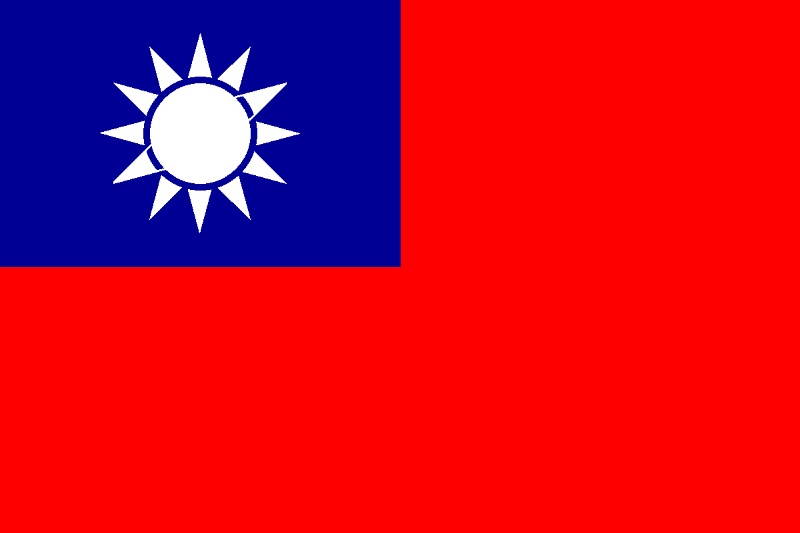
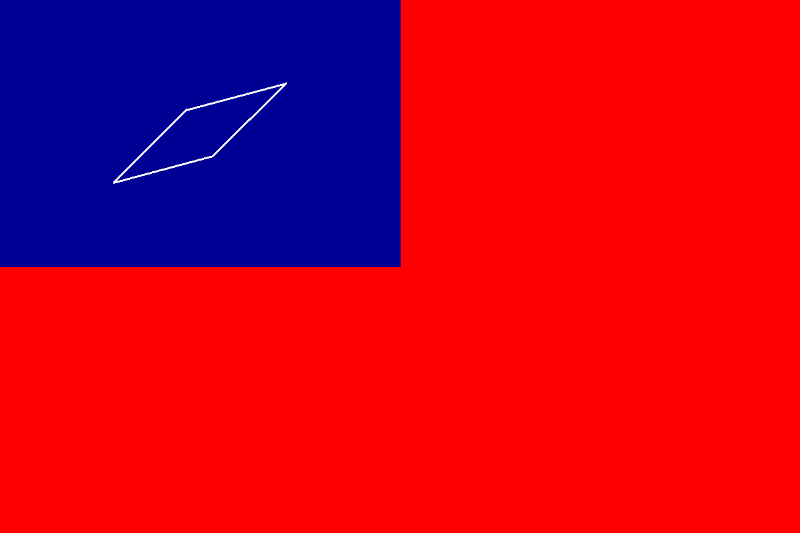
1226-2

Changed region(s): [[0.125, 0.06, 0.375, 0.4203]]

diff --git a/config/content_backup.htm b/config/content_backup.htm
@@ -960,8 +960,12 @@ gdImageLine(img, x1, y1, x2, y2, color);
 <div><img alt="" height="375" src="/images/roc_flag.png" width="563"/></div>
 <div><img alt="" height="521" src="/images/螢幕擷取畫面 2023-12-19 154806.png" width="132"/></div>
 <div>加入程式碼:</div>
+<div>
+<pre class="brush:cpp;auto-links:false;toolbar:false" contenteditable="false">// 設置線條的粗度
+gdImageSetThickness(img, 3);
+</pre>
+</div>
 <div></div>
-<div>// 設置線條的粗度<br/> gdImageSetThickness(img, 3);</div>
 <div>
 <pre class="brush:cpp;auto-links:false;toolbar:false" contenteditable="false">// 連接四個座標點
 connectPoints(img, 429, 125, 279, 165, white);
@@ -1025,10 +1029,10 @@ gdImageFilledRectangle(img, 0, 0, width, height, red);
 // 青天面積為整面國旗的 1/4, 也是採用長方形塗色
 gdImageFilledRectangle(img, 0, 0, (int)(width / 2.0), (int)(height / 2.0), blue);
 // 先設法以填色畫出六個白色堆疊菱形
-draw_white_sun(img, center_x, center_y, sun_radius, white);
+#draw_white_sun(img, center_x, center_y, sun_radius, white);
 // 利用一個藍色大圓與白色小圓畫出藍色環狀
-gdImageFilledEllipse(img, center_x, center_y, blue_circle_dia, blue_circle_dia, blue);
-gdImageFilledEllipse(img, center_x, center_y, white_circle_dia, white_circle_dia, white);
+#gdImageFilledEllipse(img, center_x, center_y, blue_circle_dia, blue_circle_dia, blue);
+#gdImageFilledEllipse(img, center_x, center_y, white_circle_dia, white_circle_dia, white);
 
 // 設置線條的粗度
 gdImageSetThickness(img, 3);
@@ -1083,14 +1087,18 @@ gdImageLine(img, dx1, dy1, ax1, ay1, color);
 
 void connectPoints(gdImagePtr img, int x1, int y1, int x2, int y2, int color) {
 gdImageLine(img, x1, y1, x2, y2, color);
-}</pre>
+}
+
+</pre>
 <p><br/><br/></p>
+<p></p>
 </div>
-<div>輸出結果:</div>
-<div><img alt="" height="494" src="/images/roc_flag_in_gd.png" width="741"/></div>
+<div>\輸出結果:</div>
+<div><img alt="" height="533" src="/images/roc_flag_in_gd.png" width="800"/></div>
+<div></div>
 <div></div>
 <div>2) 承上題, 請列出第二組 ABED 的四條直線與白日中的大圓所相交 (intersect) 的四個點座標.</div>
-<div>---------------------------------------------------------------------------------------------------</div>
+<div>------------------------------------------------------------------------------------------------</div>
 </div><h1>課程心得</h1>
 <p></p>
 <p></p>

diff --git a/config/content.htm b/config/content.htm
@@ -1029,10 +1029,10 @@ gdImageFilledRectangle(img, 0, 0, width, height, red);
 // 青天面積為整面國旗的 1/4, 也是採用長方形塗色
 gdImageFilledRectangle(img, 0, 0, (int)(width / 2.0), (int)(height / 2.0), blue);
 // 先設法以填色畫出六個白色堆疊菱形
-draw_white_sun(img, center_x, center_y, sun_radius, white);
+#draw_white_sun(img, center_x, center_y, sun_radius, white);
 // 利用一個藍色大圓與白色小圓畫出藍色環狀
-gdImageFilledEllipse(img, center_x, center_y, blue_circle_dia, blue_circle_dia, blue);
-gdImageFilledEllipse(img, center_x, center_y, white_circle_dia, white_circle_dia, white);
+#gdImageFilledEllipse(img, center_x, center_y, blue_circle_dia, blue_circle_dia, blue);
+#gdImageFilledEllipse(img, center_x, center_y, white_circle_dia, white_circle_dia, white);
 
 // 設置線條的粗度
 gdImageSetThickness(img, 3);
@@ -1087,14 +1087,18 @@ gdImageLine(img, dx1, dy1, ax1, ay1, color);
 
 void connectPoints(gdImagePtr img, int x1, int y1, int x2, int y2, int color) {
 gdImageLine(img, x1, y1, x2, y2, color);
-}</pre>
+}
+
+</pre>
 <p><br/><br/></p>
+<p></p>
 </div>
-<div>輸出結果:</div>
-<div><img alt="" height="494" src="/images/roc_flag_in_gd.png" width="741"/></div>
+<div>\輸出結果:</div>
+<div><img alt="" height="533" src="/images/roc_flag_in_gd.png" width="800"/></div>
+<div></div>
 <div></div>
 <div>2) 承上題, 請列出第二組 ABED 的四條直線與白日中的大圓所相交 (intersect) 的四個點座標.</div>
-<div>---------------------------------------------------------------------------------------------------</div>
+<div>------------------------------------------------------------------------------------------------</div>
 </div><h1>課程心得</h1>
 <p></p>
 <p></p>
